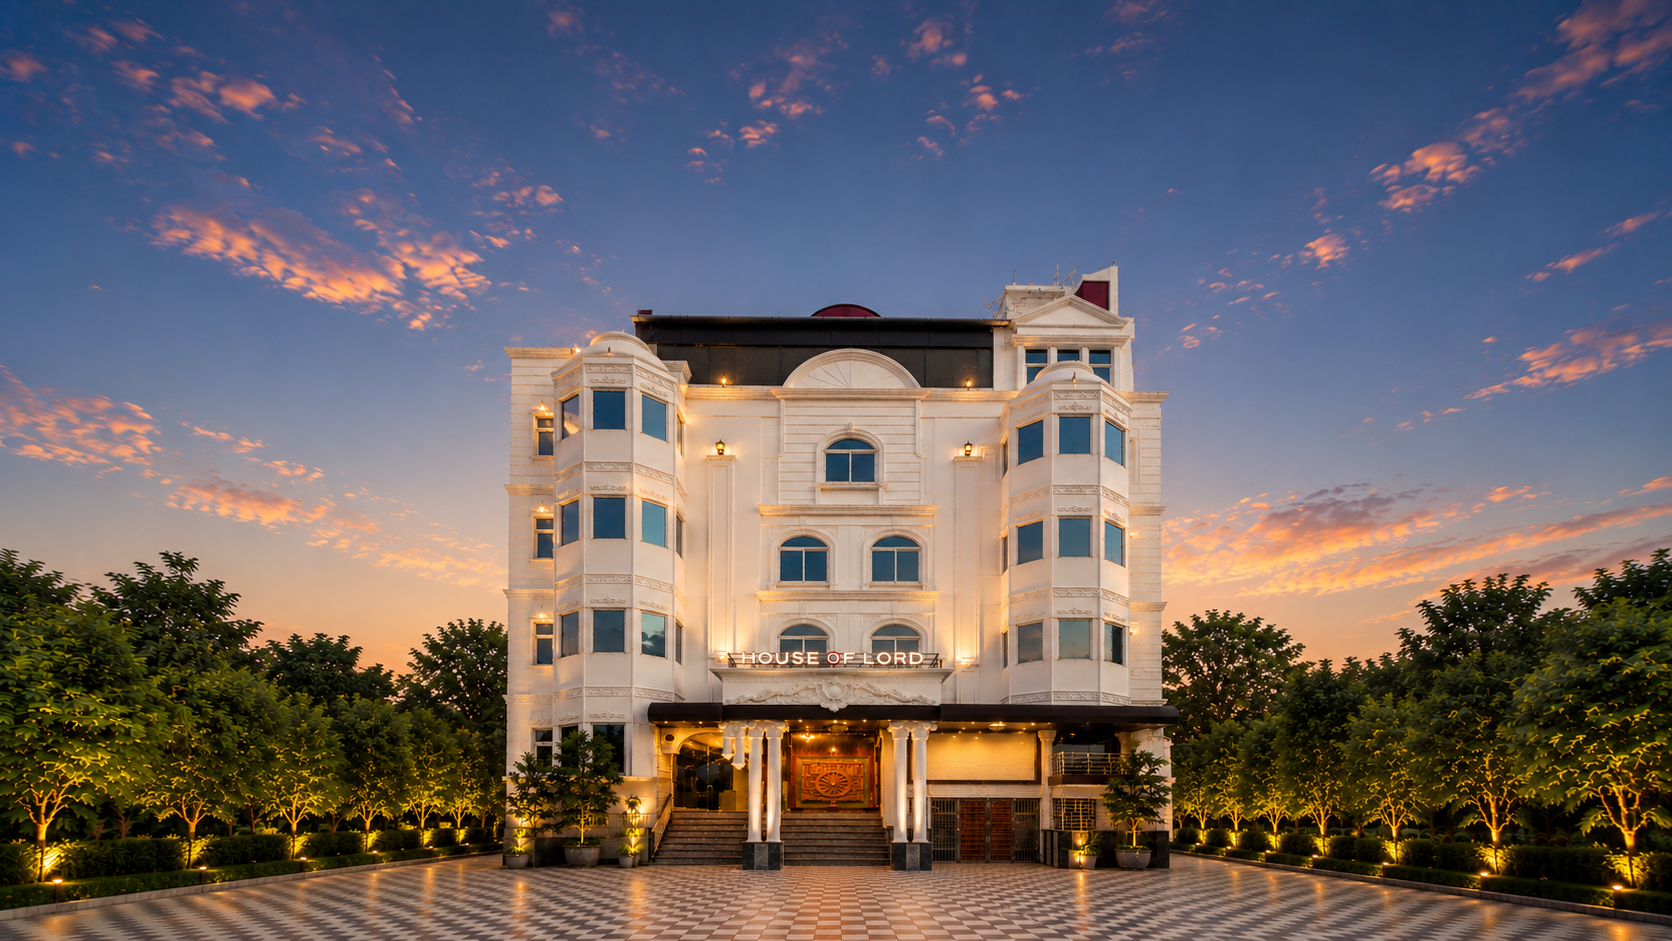
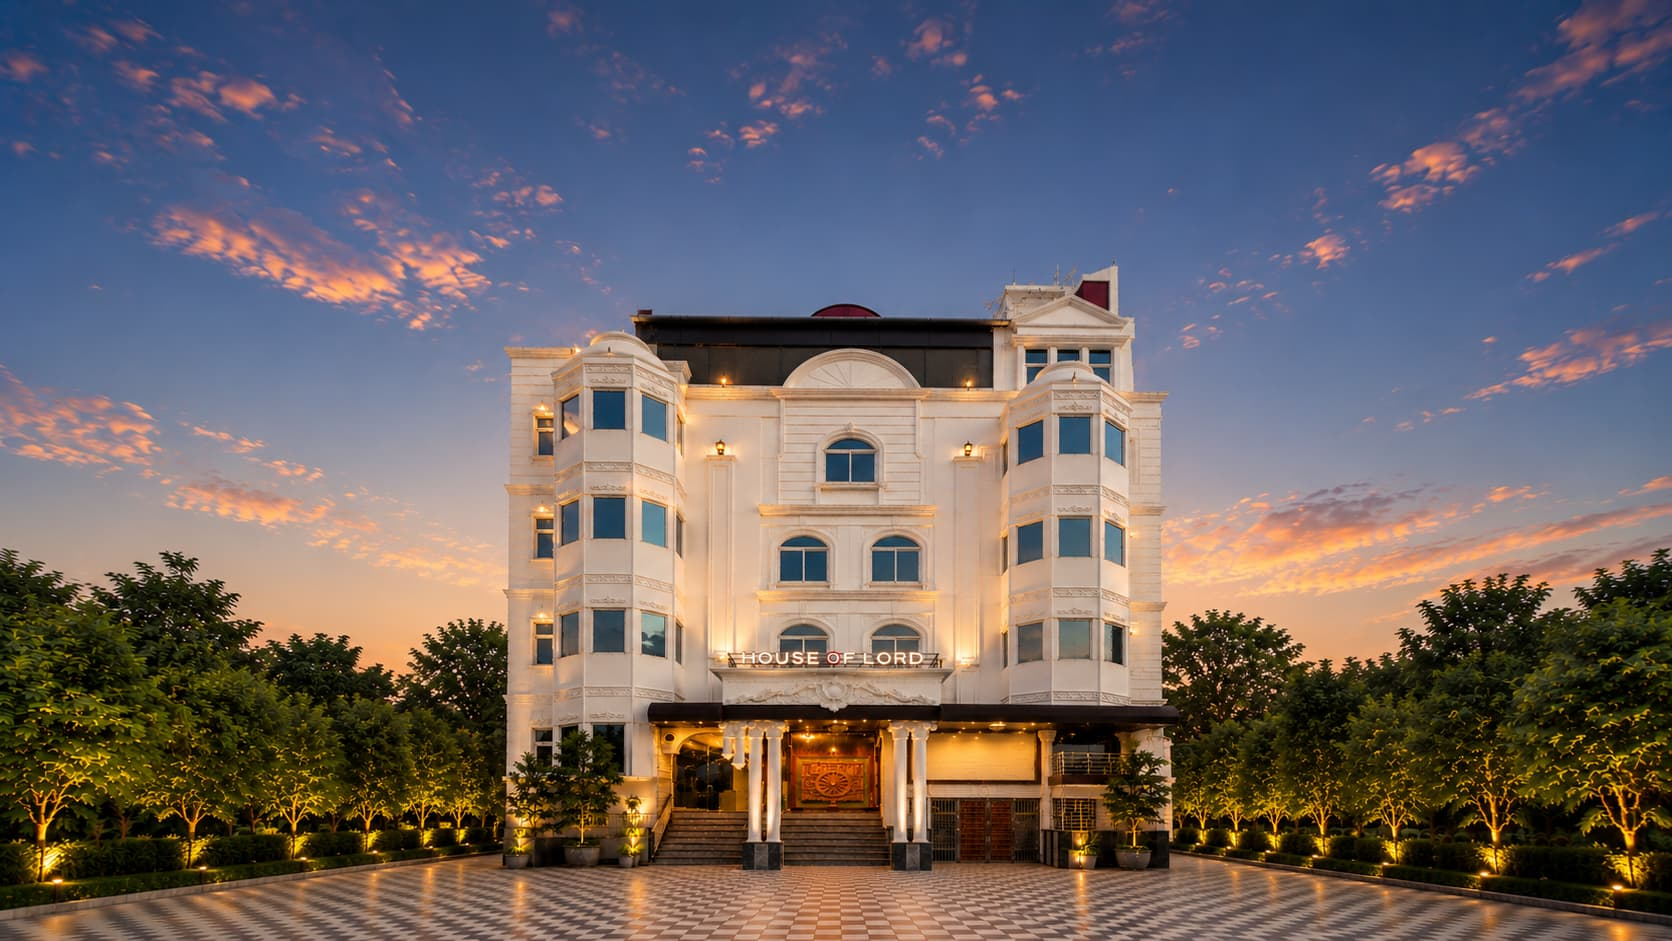
image and footer

diff --git a/src/components/Footer.jsx b/src/components/Footer.jsx
@@ -1,25 +1,37 @@
-import { Link } from 'react-router-dom';
+import { Link } from "react-router-dom";
 
 const Footer = () => {
-  const instagramUrl = "https://www.instagram.com/houseoflordbbsr?utm_source=ig_web_button_share_sheet&igsh=ZDNlZDc0MzIxNw==";
+  const instagramUrl =
+    "https://www.instagram.com/houseoflordbbsr?utm_source=ig_web_button_share_sheet&igsh=ZDNlZDc0MzIxNw==";
 
   return (
     <footer className="bg-navy-dark border-t border-white/5 px-6 md:px-20 py-16 text-white/70">
       <div className="max-w-7xl mx-auto grid grid-cols-1 sm:grid-cols-2 lg:grid-cols-4 gap-12 lg:gap-16 mb-12">
         <div className="flex flex-col gap-5">
-          <img src="/images/logo.svg" alt="House of Lord" className="h-14 w-auto self-start" />
+          <img
+            src="/images/logo.svg"
+            alt="House of Lord"
+            className="h-14 w-auto self-start"
+          />
           <p className="text-[0.8rem] leading-7 text-white/50">
-            A premier boutique hotel in Bhubaneswar, blending Baroque-inspired grandeur 
-            with world-class hospitality and timeless elegance.
+            A premier boutique hotel in Bhubaneswar, blending Baroque-inspired
+            grandeur with world-class hospitality and timeless elegance.
           </p>
           <div className="flex items-center gap-4 mt-2">
-            <a 
-              href={instagramUrl} 
-              target="_blank" 
+            <a
+              href={instagramUrl}
+              target="_blank"
               rel="noopener noreferrer"
               className="w-10 h-10 rounded-full border border-white/10 flex items-center justify-center text-white/50 hover:text-gold hover:border-gold transition-all"
             >
-              <svg width="18" height="18" viewBox="0 0 24 24" fill="none" stroke="currentColor" strokeWidth="2">
+              <svg
+                width="18"
+                height="18"
+                viewBox="0 0 24 24"
+                fill="none"
+                stroke="currentColor"
+                strokeWidth="2"
+              >
                 <rect x="2" y="2" width="20" height="20" rx="5" ry="5" />
                 <path d="M16 11.37A4 4 0 1 1 12.63 8 4 4 0 0 1 16 11.37z" />
                 <line x1="17.5" y1="6.5" x2="17.51" y2="6.5" />
@@ -29,37 +41,114 @@ const Footer = () => {
         </div>
 
         <div className="flex flex-col gap-5">
-          <h4 className="font-sans text-[0.62rem] font-bold tracking-[2.5px] uppercase text-gold">Quick Links</h4>
+          <h4 className="font-sans text-[0.62rem] font-bold tracking-[2.5px] uppercase text-gold">
+            Quick Links
+          </h4>
           <ul className="flex flex-col gap-2.5">
-            <li><Link to="/" className="text-[0.8rem] text-white/50 hover:text-gold transition-colors">Home</Link></li>
-            <li><Link to="/rooms" className="text-[0.8rem] text-white/50 hover:text-gold transition-colors">Rooms & Facilities</Link></li>
-            <li><Link to="/dining" className="text-[0.8rem] text-white/50 hover:text-gold transition-colors">Dining & Cafe</Link></li>
-            <li><Link to="/travel" className="text-[0.8rem] text-white/50 hover:text-gold transition-colors">Travel Desk</Link></li>
-            <li><Link to="/gallery" className="text-[0.8rem] text-white/50 hover:text-gold transition-colors">Gallery</Link></li>
-            <li><Link to="/contact" className="text-[0.8rem] text-white/50 hover:text-gold transition-colors">Contact Us</Link></li>
+            <li>
+              <Link
+                to="/"
+                className="text-[0.8rem] text-white/50 hover:text-gold transition-colors"
+              >
+                Home
+              </Link>
+            </li>
+            <li>
+              <Link
+                to="/rooms"
+                className="text-[0.8rem] text-white/50 hover:text-gold transition-colors"
+              >
+                Rooms & Facilities
+              </Link>
+            </li>
+            <li>
+              <Link
+                to="/dining"
+                className="text-[0.8rem] text-white/50 hover:text-gold transition-colors"
+              >
+                Dining & Cafe
+              </Link>
+            </li>
+            <li>
+              <Link
+                to="/travel"
+                className="text-[0.8rem] text-white/50 hover:text-gold transition-colors"
+              >
+                Travel Desk
+              </Link>
+            </li>
+            <li>
+              <Link
+                to="/gallery"
+                className="text-[0.8rem] text-white/50 hover:text-gold transition-colors"
+              >
+                Gallery
+              </Link>
+            </li>
+            <li>
+              <Link
+                to="/contact"
+                className="text-[0.8rem] text-white/50 hover:text-gold transition-colors"
+              >
+                Contact Us
+              </Link>
+            </li>
           </ul>
         </div>
 
         <div className="flex flex-col gap-5">
-          <h4 className="font-sans text-[0.62rem] font-bold tracking-[2.5px] uppercase text-gold">Our Offerings</h4>
+          <h4 className="font-sans text-[0.62rem] font-bold tracking-[2.5px] uppercase text-gold">
+            Our Offerings
+          </h4>
           <ul className="flex flex-col gap-2.5">
             <li className="text-[0.8rem] text-white/50">15 Deluxe Rooms</li>
             <li className="text-[0.8rem] text-white/50">Rooftop Royal Café</li>
-            <li className="text-[0.8rem] text-white/50">Vindhyavan Restaurant</li>
-            <li className="text-[0.8rem] text-white/50">Book & Coffee Library</li>
-            <li className="text-[0.8rem] text-white/50">Jagannath Darshan Assistance</li>
+            <li className="text-[0.8rem] text-white/50">
+              Vindhyavan Restaurant
+            </li>
+            <li className="text-[0.8rem] text-white/50">
+              Book & Coffee Library
+            </li>
+            <li className="text-[0.8rem] text-white/50">
+              Jagannath Darshan Assistance
+            </li>
           </ul>
         </div>
 
         <div className="flex flex-col gap-5">
-          <h4 className="font-sans text-[0.62rem] font-bold tracking-[2.5px] uppercase text-gold">Contact</h4>
+          <h4 className="font-sans text-[0.62rem] font-bold tracking-[2.5px] uppercase text-gold">
+            Contact
+          </h4>
           <ul className="flex flex-col gap-2.5">
-            <li><a href="mailto:[email redacted]" className="text-[0.8rem] text-white/50 hover:text-gold transition-colors">[email redacted]</a></li>
-            <li><a href="tel:[phone redacted]" className="text-[0.8rem] text-white/50 hover:text-gold transition-colors">[phone redacted]</a></li>
-            <li><a href="tel:[phone redacted]" className="text-[0.8rem] text-white/50 hover:text-gold transition-colors">[phone redacted]</a></li>
+            <li>
+              <a
+                href="mailto:[email redacted]"
+                className="text-[0.8rem] text-white/50 hover:text-gold transition-colors"
+              >
+                [email redacted]
+              </a>
+            </li>
+            <li>
+              <a
+                href="tel:[phone redacted]"
+                className="text-[0.8rem] text-white/50 hover:text-gold transition-colors"
+              >
+                [phone redacted]
+              </a>
+            </li>
+            <li>
+              <a
+                href="tel:[phone redacted]"
+                className="text-[0.8rem] text-white/50 hover:text-gold transition-colors"
+              >
+                [phone redacted]
+              </a>
+            </li>
             <li className="text-[0.8rem] text-white/50 leading-relaxed">
-              Plot No. 906, K8 Kalinga Nagar,<br />
-              Ghatikia, Back Side of SUM Hospital,<br />
+              Plot No. 906, K8 Kalinga Nagar,
+              <br />
+              Ghatikia, Back Side of SUM Hospital,
+              <br />
               Bhubaneswar - 751003
             </li>
           </ul>
@@ -67,8 +156,12 @@ const Footer = () => {
       </div>
 
       <div className="border-t border-white/10 pt-6 flex flex-col md:flex-row justify-between items-center gap-3">
-        <p className="text-[0.72rem] text-white/35">&copy; 2025 House of Lord. All rights reserved.</p>
-        <p className="text-[0.72rem] text-white/35 uppercase tracking-widest font-bold">Timeless Elegance</p>
+        <p className="text-[0.72rem] text-white/35">
+          &copy; 2026 House of Lord. All rights reserved.
+        </p>
+        <p className="text-[0.72rem] text-white/35 uppercase tracking-widest font-bold">
+          Timeless Elegance
+        </p>
       </div>
     </footer>
   );

diff --git a/src/components/Hero.jsx b/src/components/Hero.jsx
@@ -3,15 +3,21 @@ import { Link } from 'react-router-dom';
 
 const Hero = () => {
   return (
-    <section id="home" className="relative w-full h-screen min-h-[620px] flex items-center overflow-hidden">
-      <div 
-        className="absolute inset-0 bg-cover bg-center bg-no-repeat z-0" 
-        style={{ backgroundImage: "url('/images/hero-building.png')", backgroundPosition: "center 30%" }}
+    <section
+      id="home"
+      className="relative w-full h-screen min-h-[620px] flex items-center overflow-hidden"
+    >
+      <div
+        className="absolute inset-0 bg-cover bg-center bg-no-repeat z-0 bg-navy-dark"
+        style={{
+          backgroundImage: "url('/images/hero-building.png')",
+          backgroundPosition: "center 30%",
+        }}
       />
-      
+
       <div className="absolute inset-0 bg-gradient-to-r from-navy-dark/80 via-navy-dark/55 to-navy-dark/10 z-[1]" />
 
-      <motion.div 
+      <motion.div
         initial={{ opacity: 0, y: 32 }}
         animate={{ opacity: 1, y: 0 }}
         transition={{ duration: 0.8, ease: "easeOut" }}
@@ -21,29 +27,34 @@ const Hero = () => {
           Baroque Inspired. Modern Luxury.
         </span>
         <h1 className="font-serif text-[clamp(3rem,6vw,5.5rem)] font-bold leading-[1.08] tracking-[-1px] mb-[18px]">
-          HOUSE<br />OF LORD
+          HOUSE
+          <br />
+          OF LORD
           <span className="block w-[72px] h-[2px] bg-gold mt-[18px] mb-[22px]" />
         </h1>
         <p className="font-sans text-[0.8rem] tracking-[3px] uppercase text-white/80 mb-10 leading-relaxed">
-          Bhubaneswar's Premier Boutique Hotel <br className="hidden md:block" />
-          <span className="text-gold">Grandeur</span> &nbsp;|&nbsp; <span className="text-gold">Warmth</span> &nbsp;|&nbsp; <span className="text-gold">Timeless Elegance</span>
+          Bhubaneswar's Premier Boutique Hotel{" "}
+          <br className="hidden md:block" />
+          <span className="text-gold">Grandeur</span> &nbsp;|&nbsp;{" "}
+          <span className="text-gold">Warmth</span> &nbsp;|&nbsp;{" "}
+          <span className="text-gold">Timeless Elegance</span>
         </p>
 
         <div className="flex flex-wrap gap-4">
-          <a 
-            href="https://wa.me/917788000911?text=Namaste! I would like to book an event or room at House of Lord." 
+          <a
+            href="https://wa.me/917788000911?text=Namaste! I would like to book an event or room at House of Lord."
             target="_blank"
             rel="noopener noreferrer"
             className="btn btn-gold group"
           >
-            <svg 
-              width="16" 
-              height="16" 
-              viewBox="0 0 448 512" 
+            <svg
+              width="16"
+              height="16"
+              viewBox="0 0 448 512"
               fill="currentColor"
               className="mr-2 transition-transform group-hover:scale-110"
             >
-              <path d="M380.9 97.1C339 55.1 283.2 32 223.9 32c-122.4 0-222 99.6-222 222 0 39.1 10.2 77.3 29.6 111L0 480l117.7-30.9c32.4 17.7 68.9 27 106.1 27h.1c122.3 0 224.1-99.6 224.1-222 0-59.3-25.2-115-67.1-157zm-157 341.6c-33.2 0-65.7-8.9-94-25.7l-6.7-4-69.8 18.3L72 359.2l-4.4-7c-18.5-29.4-28.2-63.3-28.2-98.2 0-101.7 82.8-184.5 184.6-184.5 49.3 0 95.6 19.2 130.4 54.1 34.8 34.9 56.2 81.2 56.1 130.5 0 101.8-84.9 184.6-186.6 184.6zm101.2-138.2c-5.5-2.8-32.8-16.2-37.9-18-5.1-1.9-8.8-2.8-12.5 2.8-3.7 5.6-14.3 18-17.6 21.8-3.2 3.7-6.5 4.2-12 1.4-5.5-2.8-23.2-8.5-44.2-27.1-16.4-14.6-27.4-32.7-30.6-38.2-3.2-5.6-.3-8.6 2.5-11.3 2.5-2.5 5.6-6.5 8.3-9.8 2.8-3.2 3.7-5.5 5.6-9.2 1.9-3.7 1-6.9-.5-9.8-1.5-2.8-12.5-30.1-17.1-41.2-4.5-10.8-9.1-9.3-12.5-9.5-3.2-.2-6.9-.2-10.6-.2-3.7 0-9.7 1.4-14.8 6.9-5.1 5.6-19.4 19-19.4 46.3 0 27.3 19.9 53.7 22.6 57.4 2.8 3.7 39.1 59.7 94.8 83.8 13.2 5.8 23.5 9.2 31.5 11.8 13.3 4.2 25.4 3.6 35 2.2 10.7-1.6 32.8-13.4 37.4-26.4 4.6-13 4.6-24.1 3.2-26.4-1.3-2.5-5-3.9-10.5-6.6z"/>
+              <path d="M380.9 97.1C339 55.1 283.2 32 223.9 32c-122.4 0-222 99.6-222 222 0 39.1 10.2 77.3 29.6 111L0 480l117.7-30.9c32.4 17.7 68.9 27 106.1 27h.1c122.3 0 224.1-99.6 224.1-222 0-59.3-25.2-115-67.1-157zm-157 341.6c-33.2 0-65.7-8.9-94-25.7l-6.7-4-69.8 18.3L72 359.2l-4.4-7c-18.5-29.4-28.2-63.3-28.2-98.2 0-101.7 82.8-184.5 184.6-184.5 49.3 0 95.6 19.2 130.4 54.1 34.8 34.9 56.2 81.2 56.1 130.5 0 101.8-84.9 184.6-186.6 184.6zm101.2-138.2c-5.5-2.8-32.8-16.2-37.9-18-5.1-1.9-8.8-2.8-12.5 2.8-3.7 5.6-14.3 18-17.6 21.8-3.2 3.7-6.5 4.2-12 1.4-5.5-2.8-23.2-8.5-44.2-27.1-16.4-14.6-27.4-32.7-30.6-38.2-3.2-5.6-.3-8.6 2.5-11.3 2.5-2.5 5.6-6.5 8.3-9.8 2.8-3.2 3.7-5.5 5.6-9.2 1.9-3.7 1-6.9-.5-9.8-1.5-2.8-12.5-30.1-17.1-41.2-4.5-10.8-9.1-9.3-12.5-9.5-3.2-.2-6.9-.2-10.6-.2-3.7 0-9.7 1.4-14.8 6.9-5.1 5.6-19.4 19-19.4 46.3 0 27.3 19.9 53.7 22.6 57.4 2.8 3.7 39.1 59.7 94.8 83.8 13.2 5.8 23.5 9.2 31.5 11.8 13.3 4.2 25.4 3.6 35 2.2 10.7-1.6 32.8-13.4 37.4-26.4 4.6-13 4.6-24.1 3.2-26.4-1.3-2.5-5-3.9-10.5-6.6z" />
             </svg>
             Book Now
           </a>